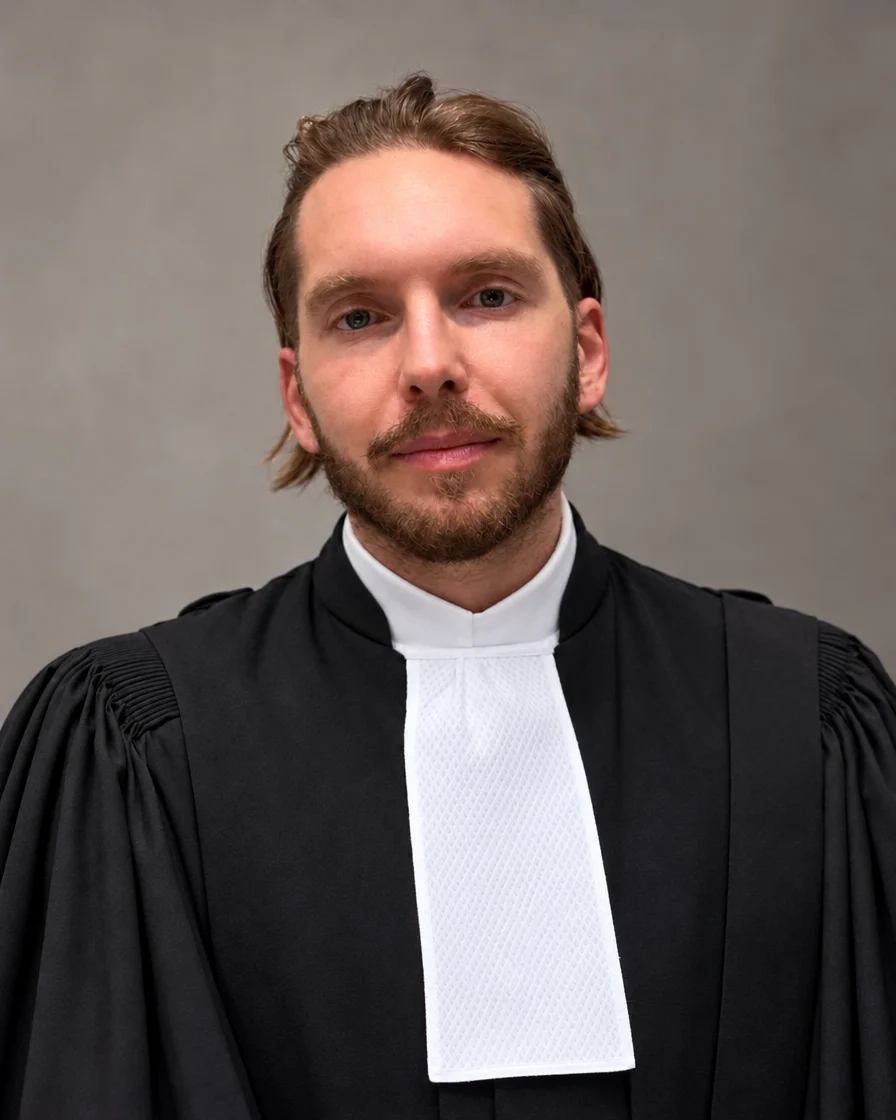
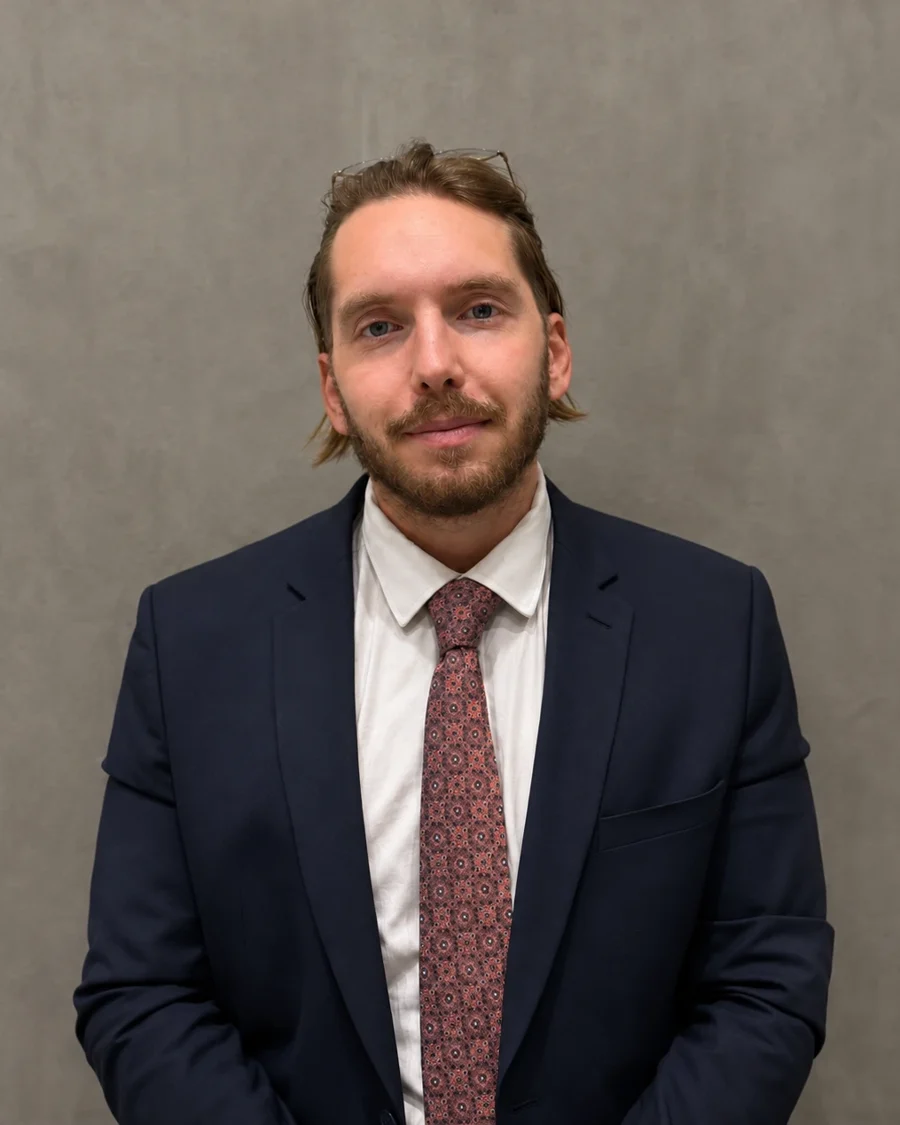
Nouvelle photo de présentation

diff --git a/index.html b/index.html
@@ -67,7 +67,7 @@
     <section id="apropos" class="section">
       <div class="wrap presentation">
         <figure class="portrait">
-          <img src="images/portrait.webp?v=1792938837" alt="Portrait de Loïck Merle, avocat à la Cour, en robe" width="896" height="1120" loading="lazy">
+          <img src="images/portrait.webp?v=1795346760" alt="Portrait de Loïck Merle, avocat à la Cour" width="900" height="1125" loading="lazy">
         </figure>
         <div class="pres-text">
           <p class="eyebrow">Présentation</p>
